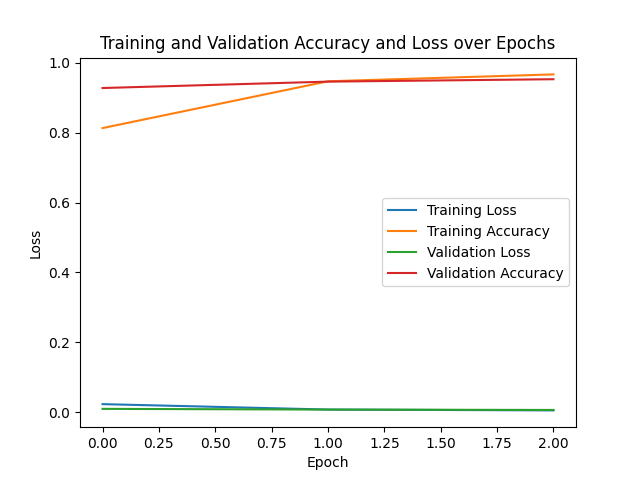
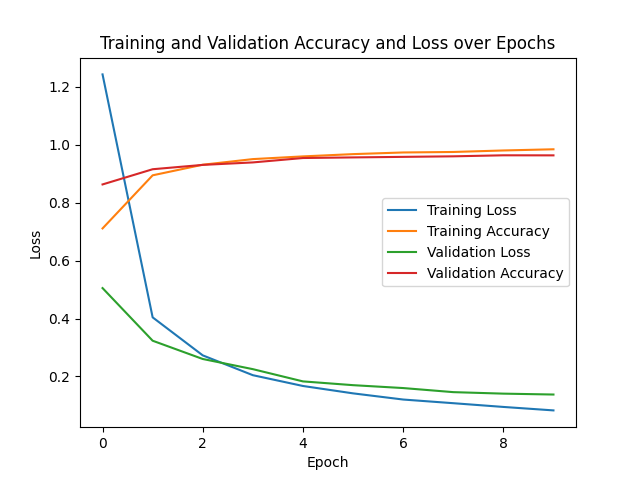
t5 fine tuning

diff --git a/server/recipe_recommendation/t5/fine_tuning.py b/server/recipe_recommendation/t5/fine_tuning.py
@@ -1,0 +1,51 @@
+from transformers import T5Tokenizer, T5ForConditionalGeneration
+import torch
+import pandas as pd
+
+# Load dataset
+df = pd.read_csv('server/recipe_recommendation/t5/csv/recipes_t5.csv')
+
+# Define tokenizer and model
+tokenizer = T5Tokenizer.from_pretrained('t5-small')
+model = T5ForConditionalGeneration.from_pretrained('t5-small')
+
+# Define training parameters
+batch_size = 4
+num_epochs = 3
+learning_rate = 1e-4
+
+# Define optimizer and loss function
+optimizer = torch.optim.Adam(model.parameters(), lr=learning_rate)
+criterion = torch.nn.CrossEntropyLoss()
+
+# Fine-tuning loop
+for epoch in range(num_epochs):
+    for i in range(0, len(df), batch_size):
+        batch = df.iloc[i:i+batch_size]
+        
+        input_text = batch['ingredients'].tolist()
+        target_text = batch['title_directions'].tolist()
+        try: 
+            input_encodings = tokenizer(input_text, padding=True, truncation=True, return_tensors='pt')
+            target_encodings = tokenizer(target_text, padding=True, truncation=True, return_tensors='pt')
+        except Exception as e: 
+            print("Exception: ", e)
+            continue
+        
+        input_ids = input_encodings['input_ids']
+        attention_mask = input_encodings['attention_mask']
+        labels = target_encodings['input_ids']
+        
+        optimizer.zero_grad()
+        
+        outputs = model(input_ids=input_ids, attention_mask=attention_mask, labels=labels)
+        loss = outputs.loss
+        
+        loss.backward()
+        optimizer.step()
+        
+        print(f"Epoch [{epoch+1}/{num_epochs}], Step [{i+1}/{len(df)}], Loss: {loss.item()}")
+
+# Save the fine-tuned model and tokenizer
+model.save_pretrained("fine_tuned_model")
+tokenizer.save_pretrained("fine_tuned_model")

diff --git a/server/object_detection_classification/combine_del.py b/server/object_detection_classification/combine_del.py
@@ -19,18 +19,13 @@ def combine_images(dir_paths):
     for dir_name, dir_path in dir_paths.items():
         if dir_name != "Raw Data":
             for root, dirs, files in os.walk(dir_path):
+                class_name = os.path.basename(root)  # Extract class name from directory path
+                counter = 1  # Initialize counter for each subdirectory
                 for file in files:
                     src_file = os.path.join(root, file)
-                    dst_file = os.path.join(raw_data_dir, file)
+                    dst_file = os.path.join(raw_data_dir, f"{class_name}_{counter}.jpg")  # Rename with class_counter
                     shutil.copy(src_file, dst_file)
+                    counter += 1  # Increment counter
 
-def rename_images(dir_path):
-    # Rename images in the 'raw_data' directory
-    for root, dirs, files in os.walk(dir_path):
-        for i, file in enumerate(files):
-            src_file = os.path.join(root, file)
-            dst_file = os.path.join(root, f"{i}.jpg")
-            os.rename(src_file, dst_file)
-                      
 # Combine images into 'raw_data' directory
 combine_images(DIR_PATHS)

diff --git a/server/recipe_recommendation/t5/train.py b/server/recipe_recommendation/t5/train.py
@@ -53,20 +53,5 @@ for batch_idx in range(num_batches):
     print(f"Batch {batch_idx + 1}/{num_batches} - Loss: {loss.item()}")
 
 # Save model
-model.save_pretrained("server/recipe_recommendation/t5/trained_models/t5small_model")
+model.save_pretrained("server/recipe_recommendation/t5/trained_models/t5small_model", from_pt = True)
 tokenizer.save_pretrained("server/recipe_recommendation/t5/trained_models/t5small_tokenizer")
-
-# Inference
-input_prompt = "1 cup of flour, 2 eggs, 1 cup of milk"
-
-# Tokenize input prompt
-input_ids = tokenizer(input_prompt, return_tensors="pt").input_ids
-
-# Generate text using the loaded model
-output = model.generate(input_ids)
-
-# Decode generated output
-decoded_output = tokenizer.decode(output[0], skip_special_tokens=True)
-
-print("Output: ", decoded_output)
-

diff --git a/server/recipe_recommendation/t5/test.py b/server/recipe_recommendation/t5/test.py
@@ -9,12 +9,25 @@ tokenizer = T5Tokenizer.from_pretrained(tokenizer_path)
 
 input_prompt = "1 cup of flour, 2 eggs, 1 cup of milk"
 
+input_list = [input_prompt]
+
 # Tokenize input prompt
-input_ids = tokenizer(input_prompt, return_tensors="pt").input_ids
+inputs = tokenizer(
+    input_list, 
+    return_tensors="pt", 
+    max_length=512,
+    padding="longest", 
+    truncation=True
+    )
 
 # Generate text using the loaded model
-output = model.generate(input_ids)
+output = model.generate(
+    input_ids = inputs["input_ids"], 
+    attention_mask = inputs["attention_mask"],
+    do_sample=False
+    )
 
+print(output)
 # Decode generated output
 decoded_output = tokenizer.decode(output[0], skip_special_tokens=True)
 
